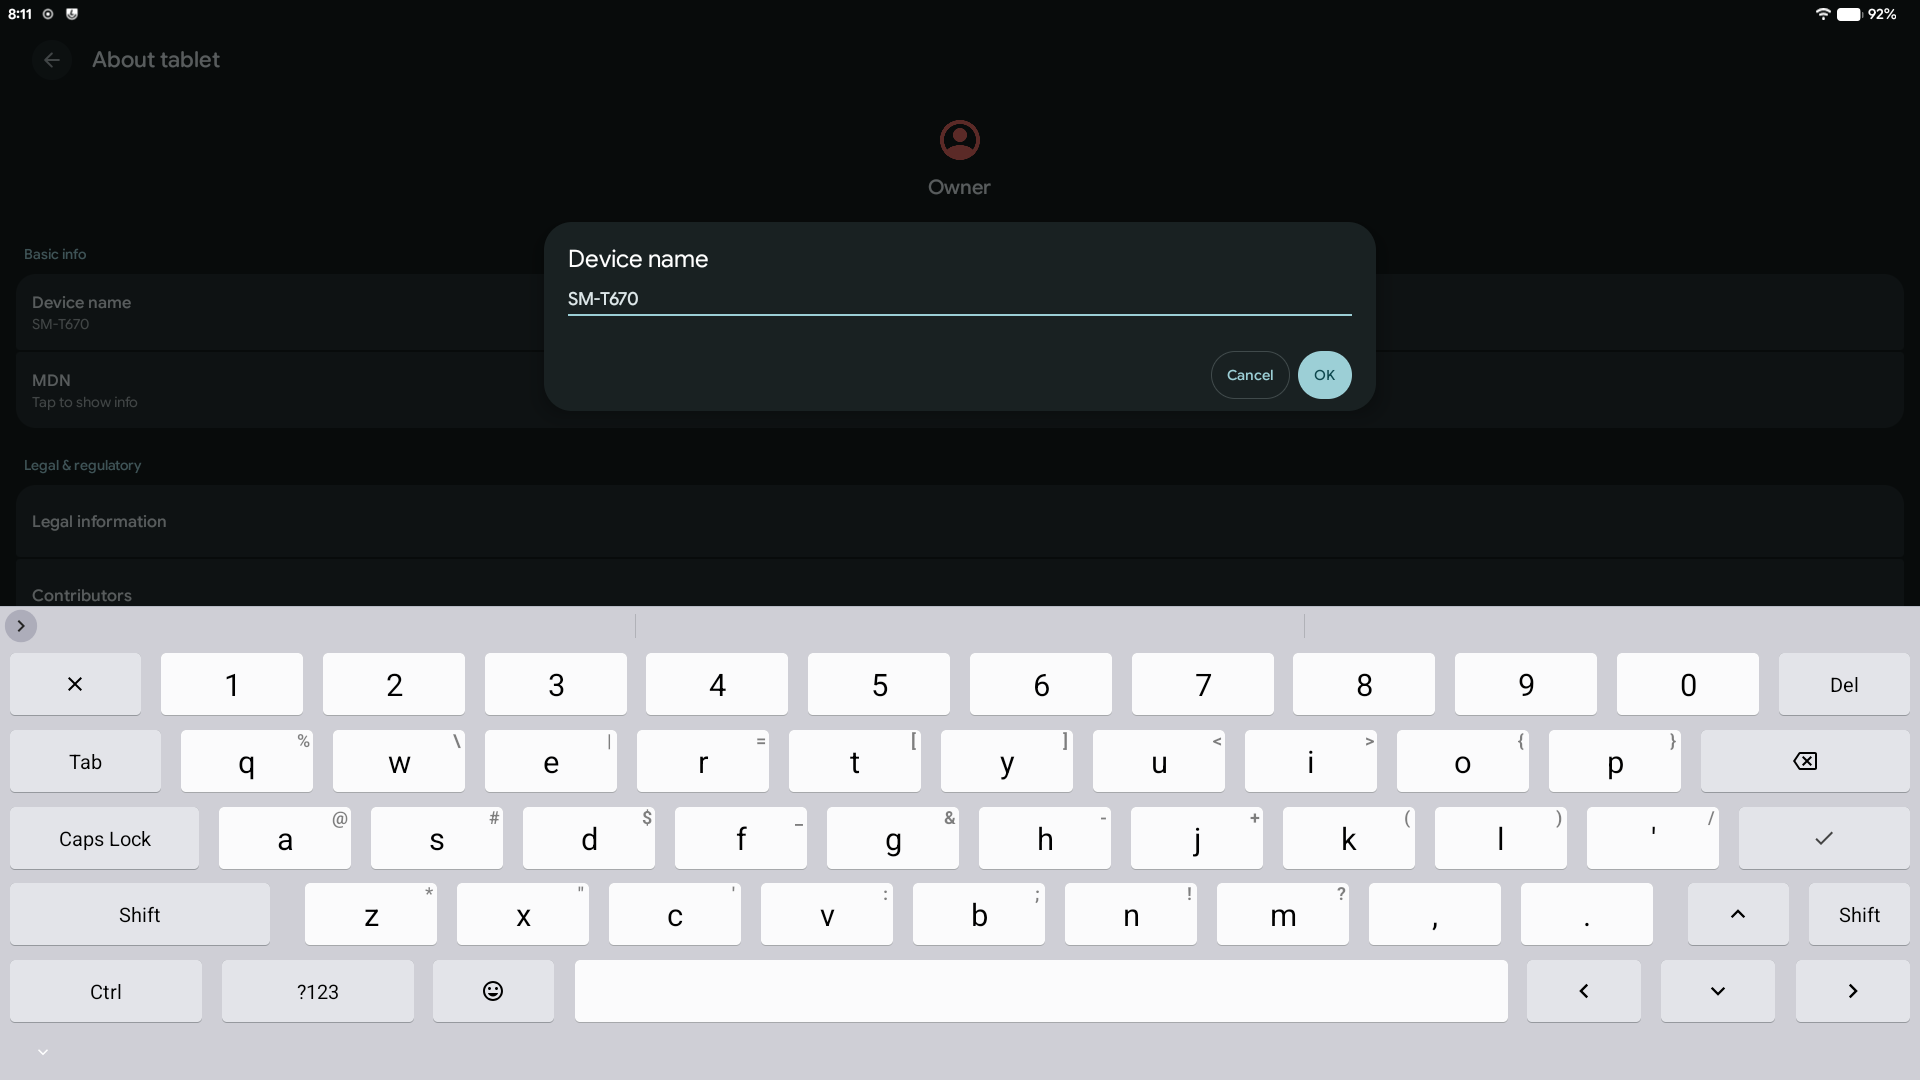
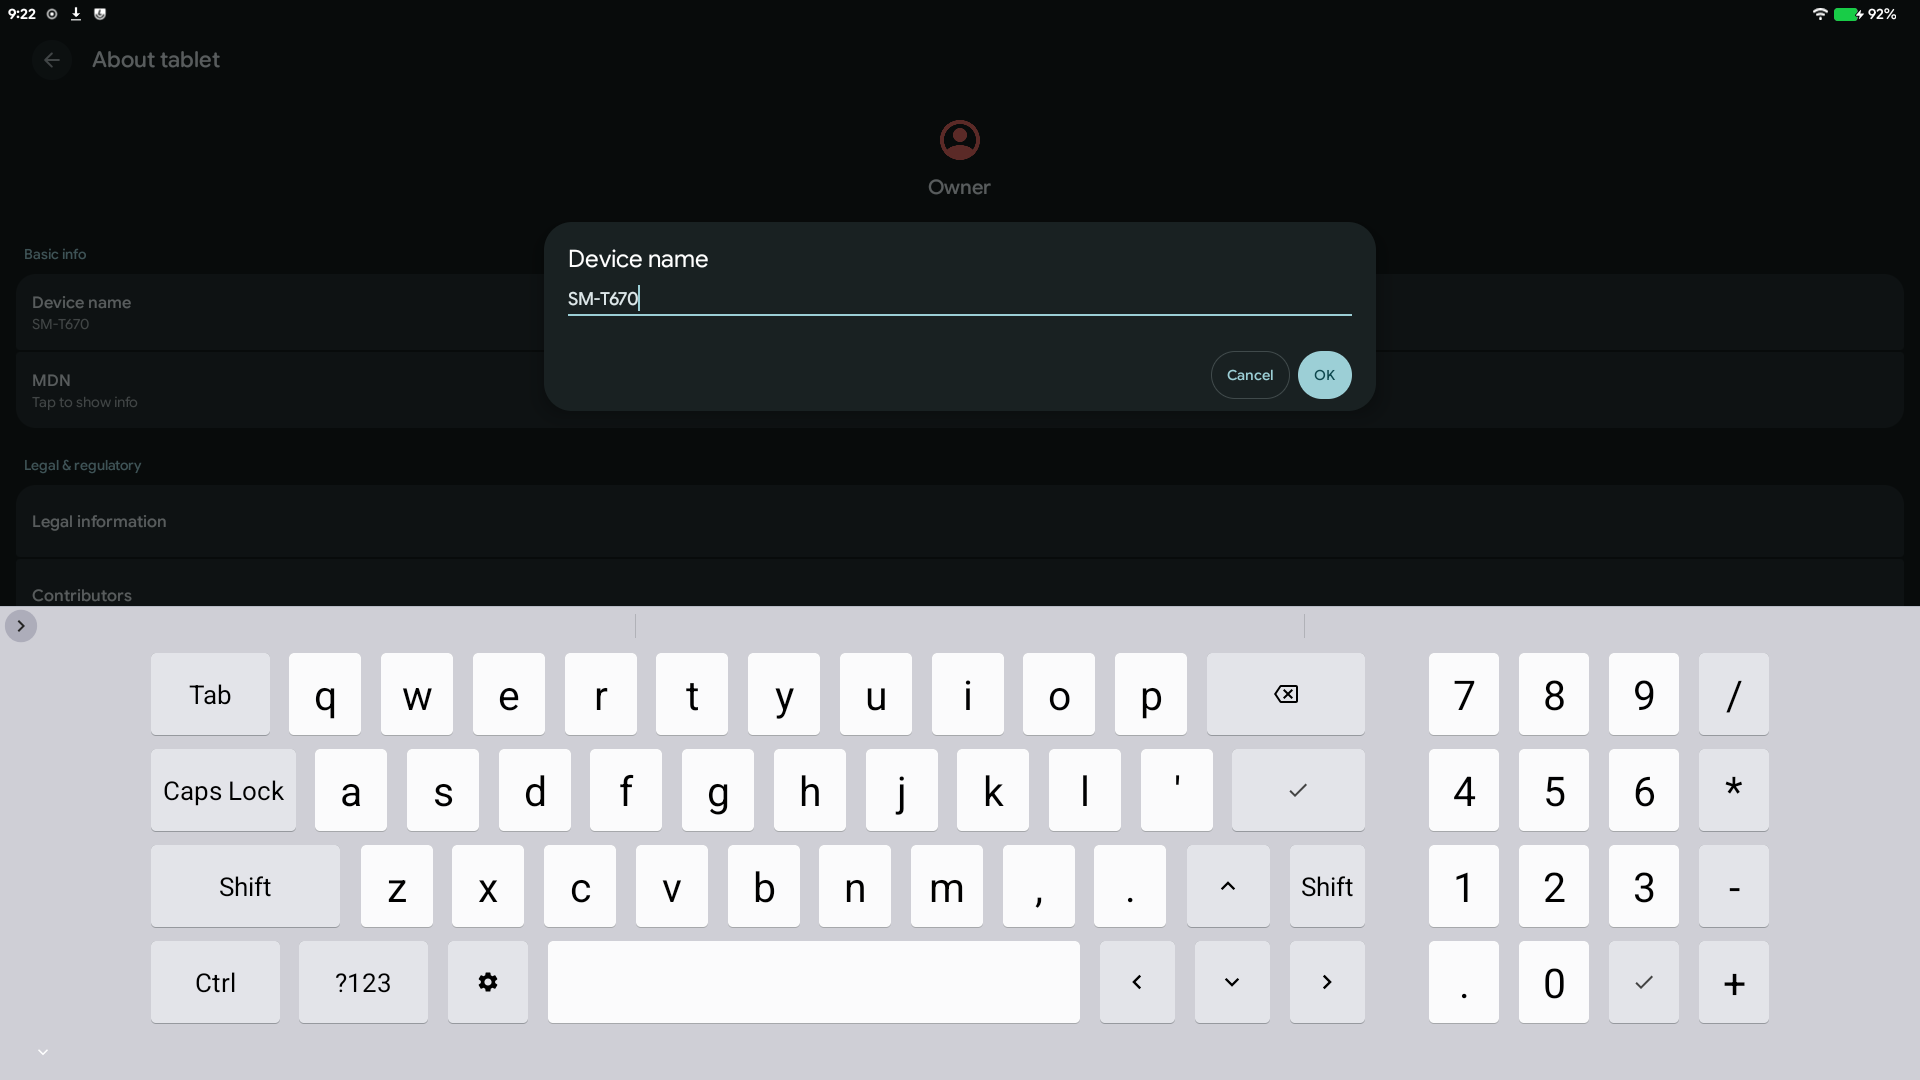
Keyboard: stock Galaxy View landscape layout with numeric keypad (20261008)
HeliBoard's Galaxy View layout now matches the stock Samsung Keyboard in
landscape: a numeric keypad (7 8 9 /, 4 5 6 *, 1 2 3 -, . 0 Enter +) on
the right instead of a number row; Tab/Caps Lock/Shift/Ctrl on the left;
Ctrl, ?123, settings, space and the arrow cluster on the bottom row; no
Hide or Del key and no key hints. Key widths and side margins measured
from a stock screenshot; letter keys get explicit widths so each row
sums to 100% (otherwise HeliBoard shrank every key). Number row and key
hints off by default, landscape side padding 0.92 x 8%.

Verified on the tablet: layout matches stock within ~10 px, keypad types.

diff --git a/docs/BUILD-KIT.md b/docs/BUILD-KIT.md
@@ -77,14 +77,17 @@ Build the APK before the ROM (`3-build.sh` stops if it is missing):
 autocorrect, built-in English dictionary, learning):
 
 - **Layout `galaxy_view`** (default for English US) + functional keys `functional_keys_galaxy_view`:
-  the stock tablet landscape layout from `SamsungIMEv2_5.apk` (`xml-sw1080dp-land`), PC-style:
-  Hide/1-0/Del, Tab/qwerty/Backspace, Caps Lock/asdf/'"/Enter, Shift/zxcv/,!/.?/Up/Shift,
-  Ctrl/?123/emoji/space/language/Left/Down/Right. Widths are Samsung's dp ratios. The functional
-  rows line up with the number row, which is on by default.
+  the stock Samsung Keyboard in landscape, with its **numeric keypad on the right**:
+  Tab/qwerty/Backspace | 7 8 9 /, Caps Lock/asdf/'"/Enter | 4 5 6 *, Shift/zxcv/,!/.?/Up/Shift
+  | 1 2 3 -, Ctrl/?123/settings/space/Left/Down/Right | . 0 Enter +. Key widths and the side
+  margins were measured from a stock screenshot (1920 px): every row sums to 100%, letter keys
+  have explicit widths (5.6%), and landscape side padding defaults to 0.92 x 8% (~142 px). The
+  number row is off by default (the keypad replaces it) and so are key hints, as on stock.
 - **Colors `Galaxy View`** (default, day and night): from the stock APK (`#CFCFD6` keypad, black
-  letters, `#666666` function labels, 50 % black corner hints, `#00A0CE` shift accent); Enter is
+  letters, `#666666` function labels, `#00A0CE` shift accent); Enter is
   gray like the stock option keys. Key fills are estimates: Samsung's key images are Qmage (`.qmg`).
-- **Del** is a real forward delete (`KEYCODE_FORWARD_DEL`, added to HeliBoard's key codes).
+- A forward-delete key code (`KEYCODE_FORWARD_DEL`) is added to HeliBoard's key codes for custom
+  layouts; the default layout has no Del or Hide key (hide with the navigation bar's keyboard button).
 - The SM-T670 reports `config_screen_metrics` < 3, so HeliBoard's tablet check is false; the
   Galaxy View functional keys are the default unconditionally.
 - Users can pick any other HeliBoard layout or colors in its settings.

diff --git a/docs/FLASHING.md b/docs/FLASHING.md
@@ -46,10 +46,10 @@ partition), stop:** this build would bootloop on that unit.
 data / factory reset** > confirm.
 
 **4. Sideload the ROM.** Check the zip first:
-`certutil -hashfile 3-rom\lineage-23.2-20261005-UNOFFICIAL-gvwifi.zip SHA256`
+`certutil -hashfile 3-rom\lineage-23.2-20261008-UNOFFICIAL-gvwifi.zip SHA256`
[1 lines of base64/hex data omitted]
 Then in recovery: *Apply update* > *Apply from ADB*, and on the PC:
-`adb sideload 3-rom\lineage-23.2-20261005-UNOFFICIAL-gvwifi.zip`
+`adb sideload 3-rom\lineage-23.2-20261008-UNOFFICIAL-gvwifi.zip`
 - The PC shows the progress stopping near **47%** with `Total xfer: 1.00x`. That's **normal**.
 - If the tablet says *Now send the package* but `adb devices` shows nothing, run
   `adb kill-server` on the PC and try again. If it still doesn't appear, choose *Reboot to

diff --git a/README.md b/README.md
@@ -8,7 +8,7 @@ Unofficial LineageOS 23.2 for the Wi-Fi Galaxy View (Exynos 7580, Linux 3.10.108
 | Lunch | `lineage_gvwifi-bp4a-userdebug` |
 | Source | LineageOS 23.2 + [`local_manifests/gvwifi.xml`](local_manifests/gvwifi.xml) (pinned gvwifi trees) |
 | Changes | [`patches/<project path>/NNNN-*.patch`](patches), applied by [`scripts/apply-patches.sh`](scripts/apply-patches.sh) (idempotent; nothing is committed into the upstream repos) |
-| Latest build | `lineage-23.2-20261005-UNOFFICIAL-gvwifi.zip`, release-keys, security patch 2026-09-01 |
+| Latest build | `lineage-23.2-20261008-UNOFFICIAL-gvwifi.zip`, release-keys, security patch 2026-09-01 |
 
 ## Screenshots
 Build 20261005 on the SM-T670 (1920x1080, landscape).

diff --git a/CHANGELOG.md b/CHANGELOG.md
@@ -3,8 +3,8 @@
 Base: LineageOS 23.2 (Android 16, `lineage_gvwifi-bp4a-userdebug`) from the github.com/gvwifi
 trees, kernel 3.10.108 (Exynos 7580), for the Samsung Galaxy View **SM-T670**.
 Every source change is a patch in `patches/<project>/`, applied by `scripts/apply-patches.sh`
-at build time. Nothing is committed upstream. Current build: 2026-10-05 (`lineage-23.2-20261005-UNOFFICIAL-gvwifi.zip`), ROM zip
-SHA-256 `14d2dab8…0ced`, recovery tar `eef58bf9…476c`.
+at build time. Nothing is committed upstream. Current build: 2026-10-08 (`lineage-23.2-20261008-UNOFFICIAL-gvwifi.zip`), ROM zip
+SHA-256 `4390fc65…27c3`, recovery tar `eef58bf9…476c`.
 
 ---
 
